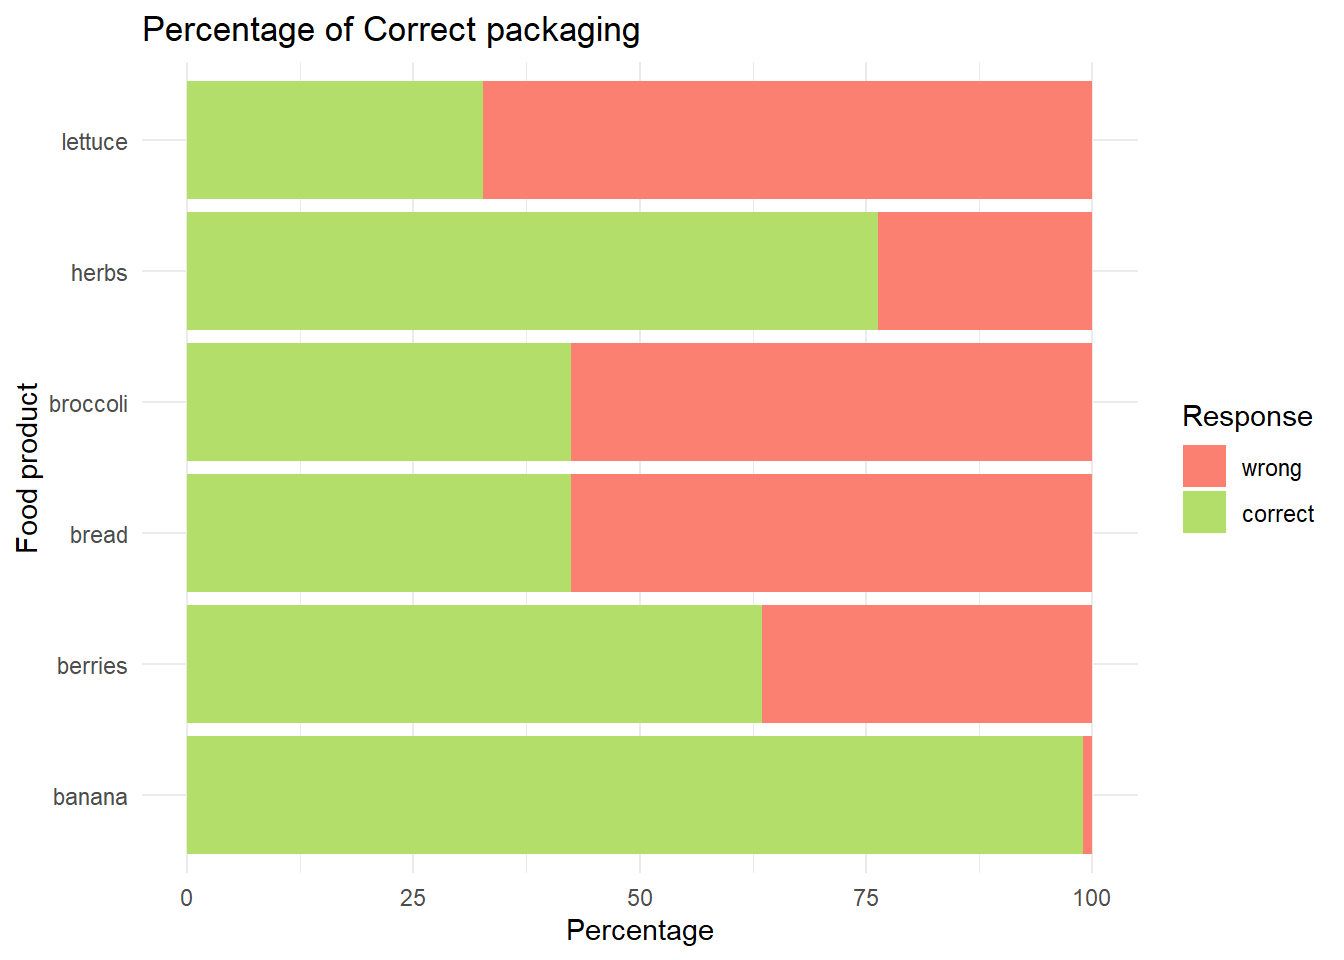
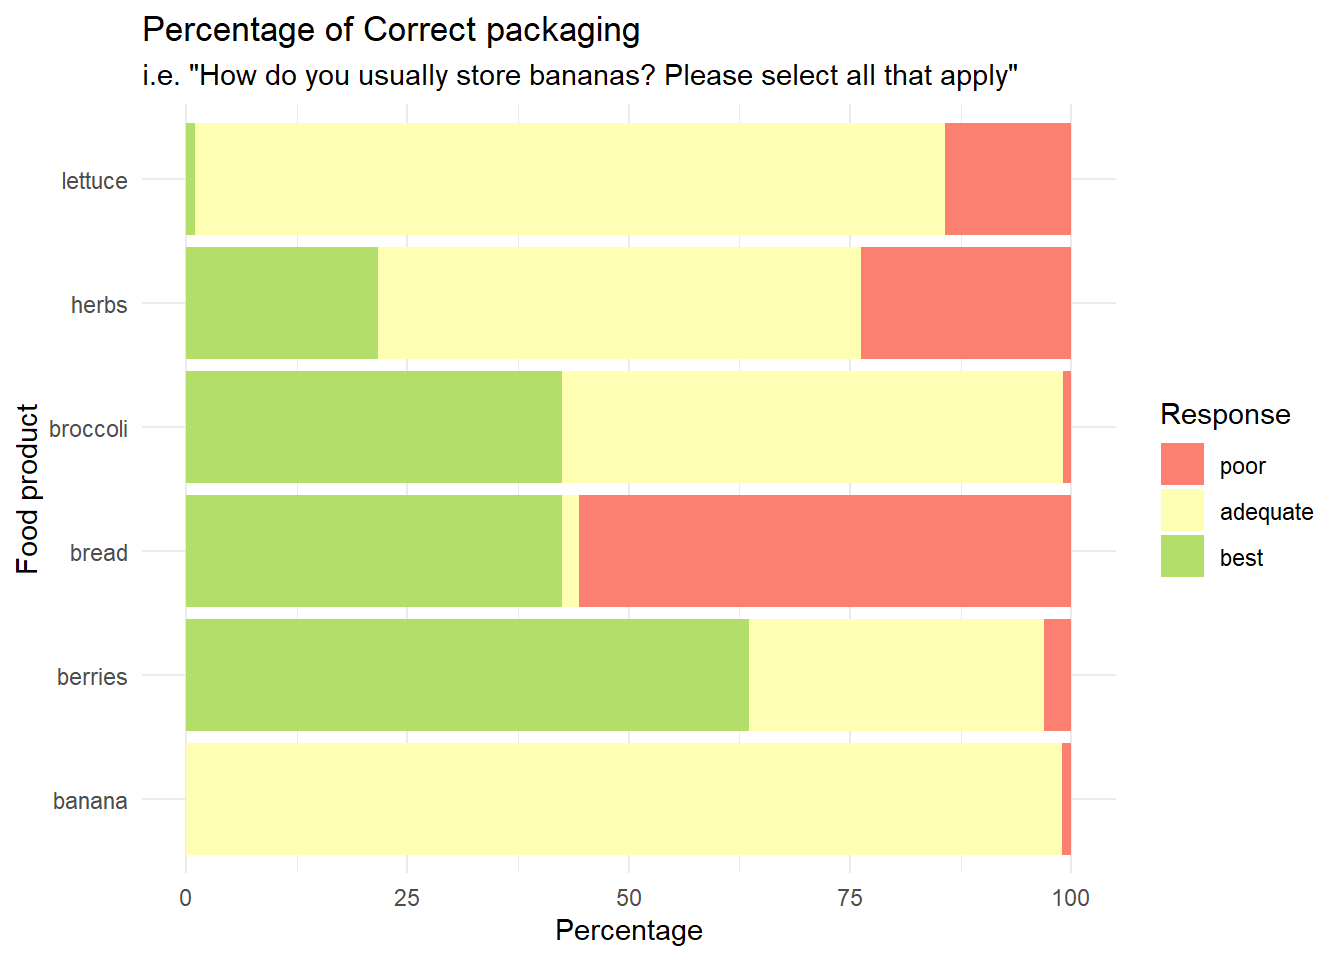
03201205

diff --git a/docs/pilot-script.html b/docs/pilot-script.html
@@ -263,10 +263,21 @@ ul.task-list li input[type="checkbox"] {
 </section>
 <section id="correct-storage-per-food-item" class="level2">
 <h2 class="anchored" data-anchor-id="correct-storage-per-food-item">Correct storage per food item</h2>
-<p>Below shows whether products were stored in the correct location. This means whether it is in the fridge, in the freezer, on the kitchen counter, in a cupboard or cellar. Criteria are based on information from the BMK (Bundesministerium für Klimaschutz, Umwelt, Energie, Mobilität, Innovation und Technologie) and The Netherlands Nutrition Centre (https://www.voedingscentrum.nl/nl/thema/kopen-koken-bewaren/eten-bewaren.aspx).</p>
-<p>Cucumbers and bell peppers are often stored sub-optimally. They are stored in the fridge but it is best not to store them in the fridge. (https://www.bmk.gv.at/themen/klima_umwelt/abfall/abfallvermeidung/lebensmittel/tipps/lagerung/obst_gemuese.html)</p>
-<p>According to The Netherlands Nutrition Centre, courgette loses flavour in the fridge and is best stored outside it. Though BMK advises the fridge.</p>
-<p>Most other foods are stored correctly.</p>
+<p>Below shows whether products were stored in the correct location. We distinguish five possible location:</p>
+<ul>
+<li>Fridge</li>
+<li>Freezer</li>
+<li>Kitchen counter</li>
+<li>Pantry or kitchen cupboard</li>
+<li>Cellar</li>
+</ul>
+<p>Criteria are based on information from the <a href="Bundesministerium für Klimaschutz, Umwelt, Energie, Mobilität, Innovation und Technologie">BMK</a> and The <a href="https://www.voedingscentrum.nl/nl/thema/kopen-koken-bewaren/eten-bewaren.aspx">Netherlands Nutrition Centre</a>.</p>
+<ul>
+<li>Cucumbers are often stored in the fridge. However, they are sensitive to cold and will only last up to 5 days in the fridge. They are best stored at 10-13 degrees, where they will last up to 3 weeks, but a cold place in the kitchen is still preferable over the fridge.</li>
+<li>Apples are often stored on the kitchen counter. However, they are best kept between 2-7 degrees, in the fridge. This also makes it more likely they stay away from other fruits and vegetables which are sensitive to ethylene.</li>
+</ul>
+<p>Tomatoes are missing from the list, but may also be tricky. They are best stored outside of the fridge.</p>
+<p>Most other foods are stored correctly and less important to focus an intervention on. Though it may still be worthwhile to inform consumers that bread freezer well, potatoes should go somewhere cool, dry and dark and bananas should not go in the fridge.</p>
 <div class="cell">
 <div class="cell-output-display">
 <div>
@@ -292,9 +303,9 @@ ul.task-list li input[type="checkbox"] {
 </section>
 <section id="foods-going-off" class="level2">
 <h2 class="anchored" data-anchor-id="foods-going-off">Foods going off</h2>
-<p>This figure shows mean scores for the question how often a food goes bad before being able to finish it, rated on a 7-point scale from 1 - Never to 7 - (almost) always.</p>
-<p>Overall, people indicate that their food very rarely goes bad before use, with the overall mean falling somewhere between almost never and rarely.</p>
-<p>Especially of interest are the products which are stored suboptimally: cucumber and bell peppers. However, these are among the products which go off the least frequently.</p>
+<p>This figure shows mean scores for the question <em>how often does a food goes bad before being able to finish it</em>, rated on a 7-point scale from 1 - Never to 7 - (almost) always.</p>
+<p>People generally underestimate how much food they throw away, so this has to be taken with a grain of salt, but gives an indication.</p>
+<p>Overall, people indicate that their food very rarely goes bad before use, with the overall mean falling somewhere between almost never and rarely. Regardless, people do let food go off more often than it should happen.</p>
 <div class="cell">
 <div class="cell-output-display">
 <div>
@@ -303,12 +314,60 @@ ul.task-list li input[type="checkbox"] {
 </figure>
 </div>
 </div>
+<div class="cell-output-display">
+<table class="caption-top table table-sm table-striped small">
+<caption>Overall frequency of each rating</caption>
+<thead>
+<tr class="header">
+<th style="text-align: left;">Rating</th>
+<th style="text-align: right;">Frequency</th>
+</tr>
+</thead>
+<tbody>
+<tr class="odd">
+<td style="text-align: left;">Never</td>
+<td style="text-align: right;">260</td>
+</tr>
+<tr class="even">
+<td style="text-align: left;">Almost Never</td>
+<td style="text-align: right;">348</td>
+</tr>
+<tr class="odd">
+<td style="text-align: left;">Rarely</td>
+<td style="text-align: right;">200</td>
+</tr>
+<tr class="even">
+<td style="text-align: left;">Sometimes</td>
+<td style="text-align: right;">176</td>
+</tr>
+<tr class="odd">
+<td style="text-align: left;">Fairly Often</td>
+<td style="text-align: right;">59</td>
+</tr>
+<tr class="even">
+<td style="text-align: left;">Very Often</td>
+<td style="text-align: right;">11</td>
+</tr>
+<tr class="odd">
+<td style="text-align: left;">Always</td>
+<td style="text-align: right;">3</td>
+</tr>
+</tbody>
+</table>
+</div>
 </div>
 </section>
 <section id="correct-packaging-per-food-item" class="level2">
 <h2 class="anchored" data-anchor-id="correct-packaging-per-food-item">Correct packaging per food item</h2>
-<p>This shows whether food products were packaged correctly when stored. Below is more detailed information about how the products are stored.</p>
-<p>This is not a great representation of the data as it is less wrong/correct and more perfect/good, as for many products it isn’t that clearly bad.</p>
+<p>This shows whether food products were packaged correctly when stored. Below is more detailed information about how the products are stored. This question was only asked for foods where packaging matters.</p>
+<p>It is split into best/adequate/poor, because in many cases there is an optimal storage condition, but alternatives are also not that bad.</p>
+<p>Of note are:</p>
+<ul>
+<li>Bread is often stored airtight, but this traps moisture and will lead to it moulding quicker.</li>
+<li>A head of lettuce is best stored with the stalk in water, though this is very rarely done</li>
+<li>fresh herbs are best wrapped in a moist kitchen towel or placed in a glass of water, but many do not</li>
+<li>Bananas are best stored with the top wrapped to stop ethylene from spreading, but no one indicated doing this.</li>
+</ul>
 <div class="cell">
 <div class="cell-output-display">
 <div>
@@ -321,14 +380,7 @@ ul.task-list li input[type="checkbox"] {
 </section>
 <section id="storage-specifics-per-food" class="level2">
 <h2 class="anchored" data-anchor-id="storage-specifics-per-food">Storage specifics per food</h2>
-<p>maybe most interesting stuff:</p>
-<ul>
-<li>bread often stored airtight but it is best to allow some airflow, as airtight packaging may trap moisture and mould the bread. Though it’s also not a very big deal.</li>
-<li>lettuce: very few people use the ‘stalk in water’ technique for storing their lettuce, which could be prolong the shelf life.</li>
-<li>anana: no one wraps the top in foil to stop the produced ethylene from spreading, which may affect the bananas themselves and surrounding products</li>
-<li>berries: they are somewhat more often thrown away and also packaged suboptimally. Airtight packaging and washing should be avoided. The moisture will make them go mouldy quicker.</li>
-<li>herbs: packaging varies a lot, the best being in a glass of water of wrapped in a moist towel. Though herbs are not bought very often.</li>
-</ul>
+<p>This breaks down further how some of the products are stored.</p>
 <div class="cell">
 <div class="cell-output-display">
 <div>
